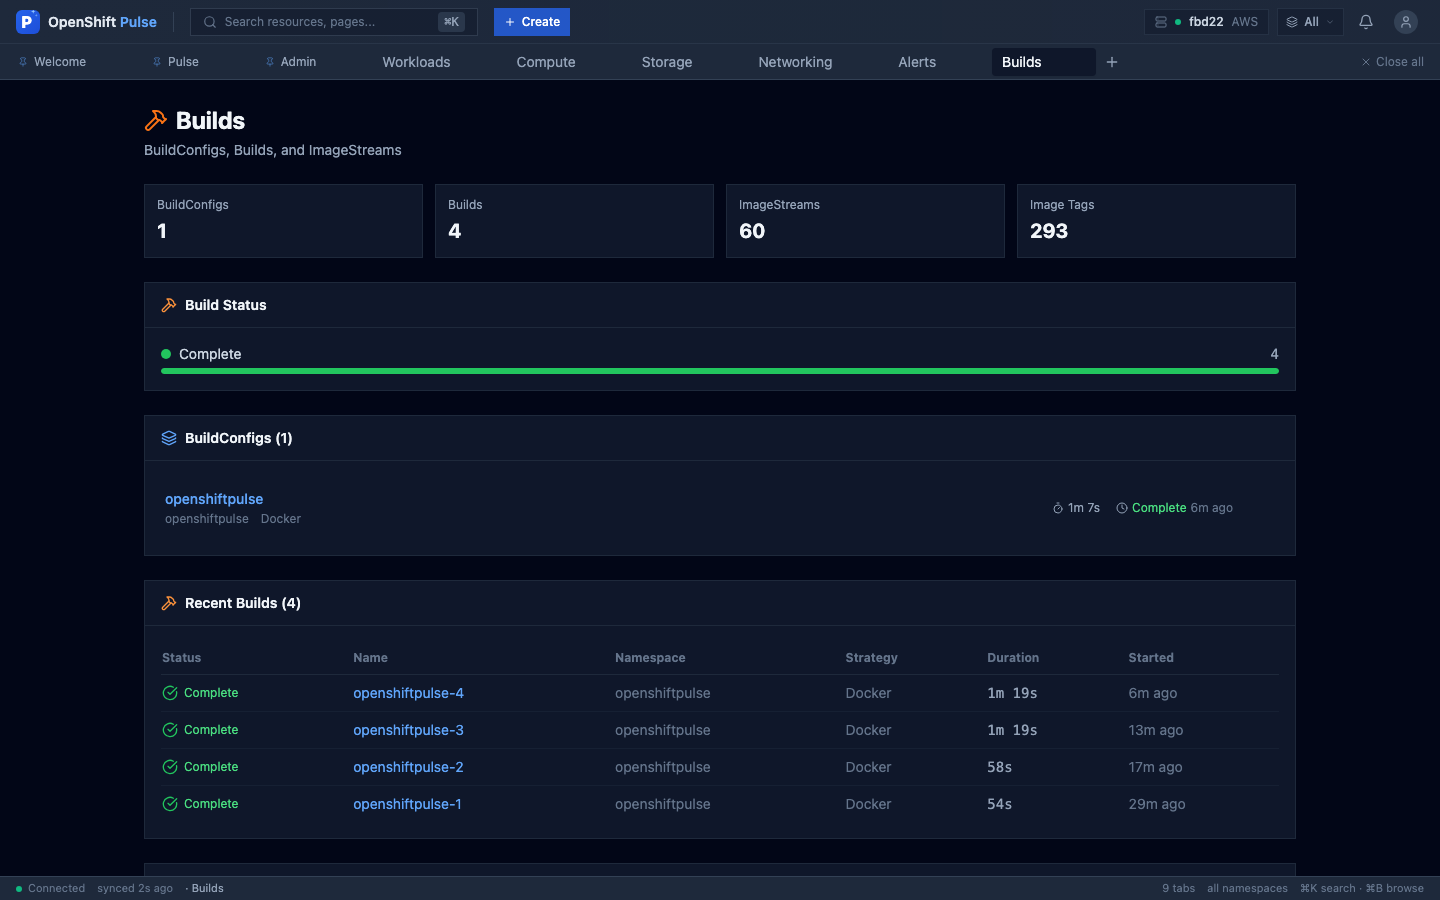
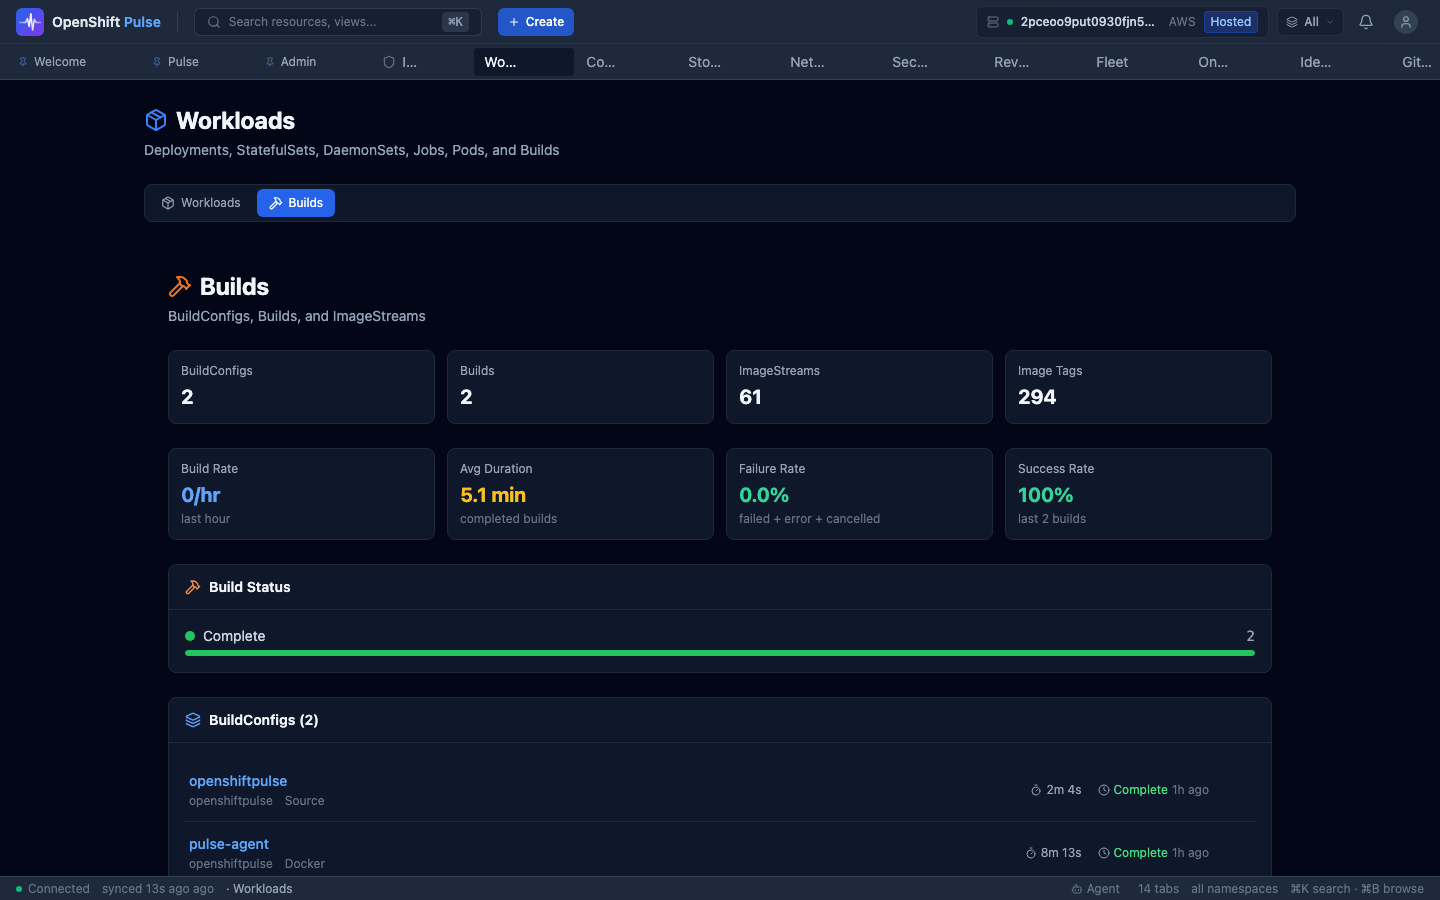
feat: refresh screenshots with Playwright from live cluster
Real cluster data: 2/2 nodes, alerts, incidents, world map topology.
Added reusable Playwright script at scripts/capture-screenshots.ts.

diff --git a/scripts/capture-screenshots.ts b/scripts/capture-screenshots.ts
@@ -1,0 +1,161 @@
+/**
+ * Capture screenshots from the live deployed OpenShift Pulse instance.
+ *
+ * Usage:
+ *   npx playwright test scripts/capture-screenshots.ts
+ *
+ * Or directly:
+ *   npx tsx scripts/capture-screenshots.ts
+ *
+ * Environment:
+ *   PULSE_URL  — base URL (default: reads from `oc get route`)
+ *   PULSE_USER — cluster username (default: cluster-admin)
+ *   PULSE_PASS — cluster password (required for OAuth login)
+ */
+
+import { chromium } from 'playwright';
+import { execSync } from 'child_process';
+import path from 'path';
+import fs from 'fs';
+
+const SCREENSHOT_DIR = path.join(__dirname, '..', 'docs', 'screenshots');
+
+interface Page {
+  name: string;
+  path: string;
+  /** CSS selector to wait for before capturing — ensures data is loaded */
+  waitFor: string;
+  /** Extra wait in ms after selector appears (for animations/renders) */
+  extraWait?: number;
+}
+
+const PAGES: Page[] = [
+  { name: 'welcome', path: '/welcome', waitFor: 'text=OpenShift Pulse', extraWait: 2000 },
+  { name: 'pulse', path: '/pulse', waitFor: 'text=Cluster Pulse', extraWait: 3000 },
+  { name: 'workloads', path: '/workloads', waitFor: 'text=Workloads', extraWait: 2000 },
+  { name: 'compute', path: '/compute', waitFor: 'text=Compute', extraWait: 2000 },
+  { name: 'storage', path: '/storage', waitFor: 'text=Storage', extraWait: 2000 },
+  { name: 'networking', path: '/networking', waitFor: 'text=Networking', extraWait: 2000 },
+  { name: 'security', path: '/security', waitFor: 'text=Security', extraWait: 2000 },
+  { name: 'admin', path: '/admin', waitFor: 'text=Administration', extraWait: 2000 },
+  { name: 'incidents', path: '/incidents', waitFor: 'text=Incident Center', extraWait: 2000 },
+  { name: 'reviews', path: '/reviews', waitFor: 'text=Review Queue', extraWait: 2000 },
+  { name: 'fleet', path: '/fleet', waitFor: 'text=Fleet', extraWait: 2000 },
+  { name: 'onboarding', path: '/onboarding', waitFor: 'text=Production Readiness', extraWait: 2000 },
+  { name: 'identity', path: '/identity', waitFor: 'text=Identity', extraWait: 2000 },
+  { name: 'gitops', path: '/gitops', waitFor: 'text=GitOps', extraWait: 2000 },
+  { name: 'alerts', path: '/incidents?tab=alerts', waitFor: 'text=Incident Center', extraWait: 2000 },
+  { name: 'builds', path: '/workloads?tab=builds', waitFor: 'text=Workloads', extraWait: 2000 },
+];
+
+async function getBaseUrl(): Promise<string> {
+  if (process.env.PULSE_URL) return process.env.PULSE_URL;
+  try {
+    const route = execSync(
+      'oc get route openshiftpulse -n openshiftpulse -o jsonpath="{.spec.host}"',
+      { encoding: 'utf-8' },
+    ).trim().replace(/"/g, '');
+    return `https://${route}`;
+  } catch {
+    throw new Error('Set PULSE_URL or ensure oc is logged in with a route available');
+  }
+}
+
+async function login(page: any, baseUrl: string) {
+  const user = process.env.PULSE_USER || 'cluster-admin';
+  const pass = process.env.PULSE_PASS;
+  if (!pass) {
+    throw new Error('PULSE_PASS is required for OAuth login');
+  }
+
+  console.log(`  Logging in as ${user}...`);
+  await page.goto(baseUrl, { waitUntil: 'networkidle', timeout: 30000 });
+
+  // OAuth login page — click the htpasswd/kube:admin identity provider
+  try {
+    // Look for login form or IDP selection
+    const idpButton = page.locator('a:has-text("htpasswd"), a:has-text("kube"), a:has-text("cluster"), button:has-text("Log in")').first();
+    if (await idpButton.isVisible({ timeout: 5000 })) {
+      await idpButton.click();
+      await page.waitForTimeout(1000);
+    }
+  } catch {
+    // May already be on the login form
+  }
+
+  // Fill credentials
+  try {
+    await page.fill('input[name="username"], #inputUsername', user, { timeout: 5000 });
+    await page.fill('input[name="password"], #inputPassword', pass);
+    await page.click('button[type="submit"], input[type="submit"]');
+    await page.waitForNavigation({ waitUntil: 'networkidle', timeout: 15000 });
+    console.log('  Logged in successfully');
+  } catch (e) {
+    // May already be logged in (session cookie)
+    console.log('  Already logged in or login skipped');
+  }
+
+  // Wait for app to load
+  await page.waitForTimeout(3000);
+}
+
+async function main() {
+  const baseUrl = await getBaseUrl();
+  console.log(`Base URL: ${baseUrl}`);
+  fs.mkdirSync(SCREENSHOT_DIR, { recursive: true });
+
+  const browser = await chromium.launch({
+    args: ['--ignore-certificate-errors'],
+  });
+
+  const context = await browser.newContext({
+    viewport: { width: 1440, height: 900 },
+    ignoreHTTPSErrors: true,
+  });
+
+  const page = await context.newPage();
+
+  // Login once
+  await login(page, baseUrl);
+
+  // Navigate to welcome first to let the app initialize
+  await page.goto(`${baseUrl}/welcome`, { waitUntil: 'networkidle', timeout: 30000 });
+  await page.waitForTimeout(5000);
+
+  // Capture each page
+  for (const p of PAGES) {
+    const url = `${baseUrl}${p.path}`;
+    const outFile = path.join(SCREENSHOT_DIR, `${p.name}.png`);
+
+    process.stdout.write(`  Capturing ${p.name}...`);
+    try {
+      await page.goto(url, { waitUntil: 'networkidle', timeout: 20000 });
+      await page.waitForSelector(p.waitFor, { timeout: 10000 });
+      await page.waitForTimeout(p.extraWait || 2000);
+
+      // Wait for skeleton loaders to disappear
+      try {
+        await page.waitForFunction(
+          () => document.querySelectorAll('.animate-pulse').length === 0,
+          { timeout: 8000 },
+        );
+      } catch {
+        // Some skeletons may persist — that's OK
+      }
+
+      await page.screenshot({ path: outFile, fullPage: false });
+      const size = fs.statSync(outFile).size;
+      console.log(` ${(size / 1024).toFixed(0)}KB`);
+    } catch (e: any) {
+      console.log(` FAILED: ${e.message}`);
+    }
+  }
+
+  await browser.close();
+  console.log('\nDone! Screenshots saved to docs/screenshots/');
+}
+
+main().catch((e) => {
+  console.error(e);
+  process.exit(1);
+});
